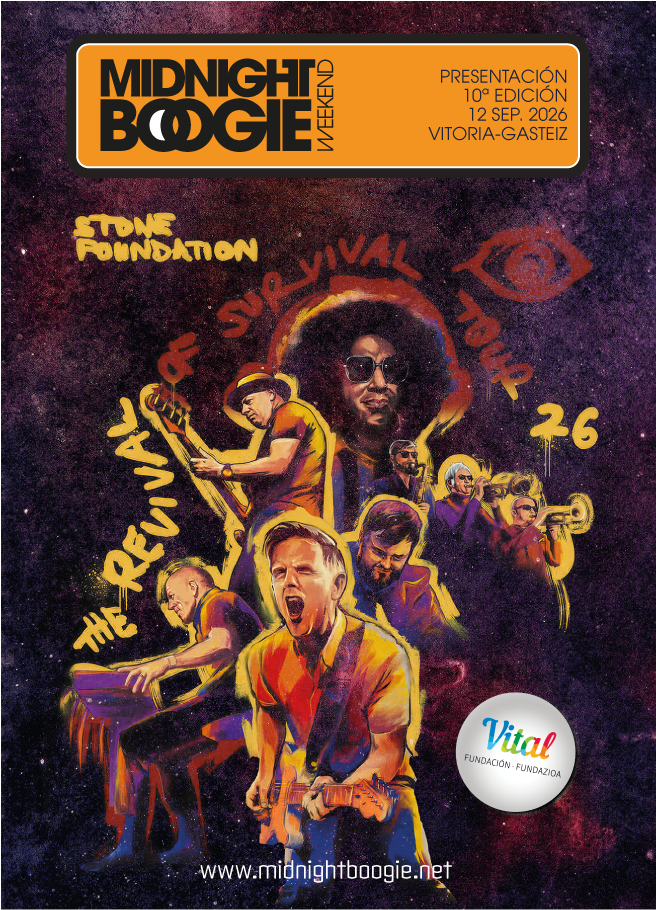
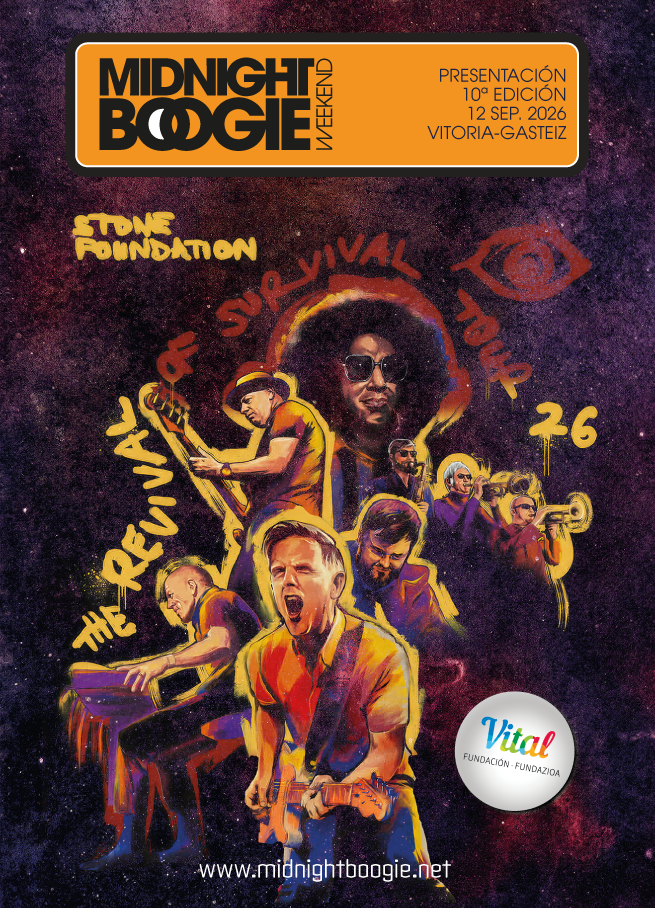
fix: manualChunks function syntax corrected

diff --git a/TAREAS PENDIENTES.md b/TAREAS PENDIENTES.md
@@ -1,0 +1,142 @@
+## Pendientes (lista de pulido)
+- Formulario contacto: endpoint Formspree placeholder — pedir ID real al cliente. NO
+- Definir naranja corporativo definitivo con cliente. OK
+- syl-al.jpg 404 en /artistas . OK
+- Micro-flash entre secciones (ajustar color base body vs fondo) OK
+- Valorar logo Arkabia invertido (fondo negro sobre web oscura) OK
+- Mejora la localización en el mapa, ya que va a la dirección pero no a la sala concreta OK
+- Concretar con el dueño la estructura de ediciones pasadas OK
+- Arreglar la foto de entrada se agranda y tapa el logo de vital FALTA
+- Quitar el Foot de la portada OK
+- En el Foot poner patrocinador principal encima del logo vital OK
+- Enlazar news con el mail del festival OK
+- Configura Brevo para recojer los email de news y hacer mails masivos con plantillas hechas exproceso para ello. X
+- Maquetar un poco mejor el cuadro que abre en Quines somos OK
+- Poner los títulos de las páginas en mismo estilo, tamaño, etc... FALTA!!
+- Poner el material propmocional también al final de la programación ya que no hace falta ir al apartado entradas y habra usuarios que no lo visiten... FALTA!!
+- Probar si lo manda bien en watsup, facebook e instagram, no manda el flyer!
+- Automatizar las redes sociales con el dueño. NO
+- Comprovar que formulario de contacto se manda al mail señalado. OK
+- Queda también pendiente definir los estilos CSS en Tailwind, muy importante. OK
+- Preguntar al dueño si quiere que en la progración>comprar entrada quiere que vaya directamente a la url de venta o vaya al apartado de entrasdas de la web. OK
+- Flyers 2020 y 2016 para meter en archivo. OK
+- Foto syl al y bio. OK
+- Foto en color de BEA. OK
+- Fotos y bios de los Dj del primer dia. OK
+- Repasar los videos que hay dsiponibles para artistas, necesitan url precisa no vevo... OK
+- Configurar Sanity de una vez para CMS y dejar claros todos los elemento editables y explicar el modo de uso al dueño. Modificar, añadir y suprimir info. NO
+- Conseguir logo Creative Soul, es muy chillón, mirar negativo de arkabia, conseguir logo Hell a mas resolución. OK
+- Pulir tamaños de letra y oscuridad del background. OK
+- Poner my firma de diseño y desarrollo con mi contacto y copyright de la página de los diseños mios y el las foto mias. Poner mi logotipo y nombre comercial. FALTA!!
+- Poner copyright o derechos cedidos en el resto de las fotos. FALTA !!
+- Videos con url que pague derechos al grupo. OK
+
+- Consultar últimas modificaciones y entregar el control total del contenido al dueño
+- Dejar todo el diseño bloqueado. OK
+
+- IMPORTANTE DNS, y su email no me funciona, domingo por la mañana como tarde arreglar. OK
+
+## Estado del formulario de contacto (en curso)
+- Sustituido Formspree por Brevo: función serverless api/contacto.js (raíz del repo) OK
+- Clave BREVO_API_KEY guardada en Vercel (Settings del proyecto → Environment Variables) OK 
+- Remitente Brevo validado con igu.soul@gmail.com (sender de la función usa ese email) OK
+- contacto.astro: form con id="contact-form", honeypot "website", script delegado, fetch a /api/contacto OK
+- PENDIENTE: hacer commit+push, probar el formulario en producción y verificar llegada en Brevo OK
+- La función api/ solo corre en producción (Vercel), no en npm run dev
+Revisar analytics OK
+Link desde entradas al taller corregir OK
+Centrar contacto en dektop OK
+Seo OK 
+Lightbox en archivo OK
+
+1. Google My Business (GRATIS, 10 min):
+
+https://www.google.com/business/
+- Añadir negocio: "Midnight Boogie Festival"
+- Categoría: "Event Venue" o "Music Festival"
+- Ubicación: Vitoria-Gasteiz
+- Web: https://www.midnightboogie.net
+- Fotos del flyer/artistas
+
+2. Listados en directorios locales (30 min):
+
+https://www.tripadvisor.com/ (crear evento)
+https://www.eventbrite.es/ (añadir evento gratuito como teaser)
+Directorio de eventos de Álava/Gipuzkoa
+
+3. Email a blogs musicales (1 hora): Enviar a 5-10 blogs:
+
+Asunto: Fest 2026 - Stone Foundation & boogie en Vitoria
+
+Hola [nombre del blog],
+
+Te escribo para contarte sobre el Midnight Boogie Weekend 2026,
+un festival de soul/boogie/rock'n'roll que tendrá lugar en Vitoria-Gasteiz
+los días 27-28 de noviembre en salas Arkabia y Helldorado.
+
+Confirmados hasta ahora:
+- Stone Foundation (Madrid)
+- [lista de artistas]
+
+📅 Fechas: 27-28 noviembre 2026
+📍 Lugares: Sala Arkabia + Helldorado
+💶 Entradas desde: [precio]
+🔗 Más info: https://www.midnightboogie.net/programa
+
+Nos encantaría que pudieras cubrir el festival o añadirnos a tu
+calendario de eventos 2026. Estamos abiertos a entrevistas,
+cubrimiento de prensa o colaboraciones.
+
+¡Gracias por tu tiempo!
+
+Saludos cordiales,
+[Tu nombre]
+Organizador, Midnight Boogie Festival
++34 [teléfono]
+
+Herramientas útiles:
+Ahrefs (pago): https://ahrefs.com/backlink-checker — analiza competencia
+Google Alerts: alerta para "festival boogie Vitoria" + "Midnight Boogie"
+Manual: busca en Google "evento boogie" site:.es → contacta a quienes aparecen
+
+Google Alerts: alerta para "festival boogie Vitoria" + "Midnight Boogie"
+Manual: busca en Google "evento boogie" site:.es → contacta a quienes aparecen
+
+3. robots.txt — Sí, crear y subir
+
+Crea el archivo public/robots.txt:
+
+User-agent: *
+Allow: /
+
+# Sitemaps principales
+Sitemap: https://www.midnightboogie.net/sitemap.xml
+
+# Bloquear paths internos (si existen)
+Disallow: /_astro/
+Disallow: /admin/
+Disallow: /private/
+Disallow: /*?*
+
+Sube el archivo y valida en: https://www.midnightboogie.net/robots.txt
+
+VERIFICAR, YA ESTÁ SUBIDO
+
+4. Chequeo contenido semántico OK
+
+
+7. Link building (backlinks) — Explicación completa
+
+LINK BUILDING PARA EVENTOS LOCALES
+INFO
+Backlinks desde sitios relacionados aumentan autoridad del dominio y posicionamiento. Prioriza directorios locales, blogs musicales y turismo regional.
+¿Qué son backlinks?
+Son enlaces desde otras webs hacia la tuya. Google los interpreta como "votos de confianza".
+
+Tipos de backlinks (prioridad):
+Tipo	Ejemplo	Potencia	Dificultad
+Directorios locales	TripAdvisor, Google My Business	⭐⭐⭐⭐⭐	Fácil
+Turismo oficial	Turismo Vitoria-Gasteiz, Euskadi.travel	⭐⭐⭐⭐⭐	Medio
+Blogs musicales	Zona Zine, Rockdelux, Revolver.es	⭐⭐⭐⭐	Medio
+Medios locales	El Correo, Diario Vasco, VitoriaMedia	⭐⭐⭐⭐	Difícil
+Redes sociales	Instagram, Facebook	⭐⭐	Muy fácil
